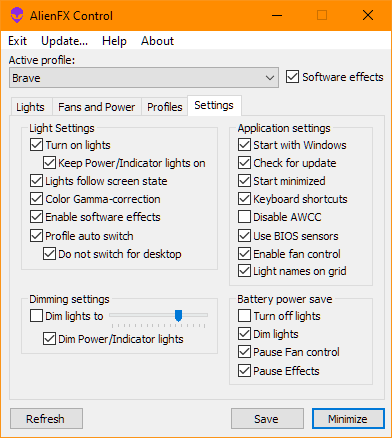
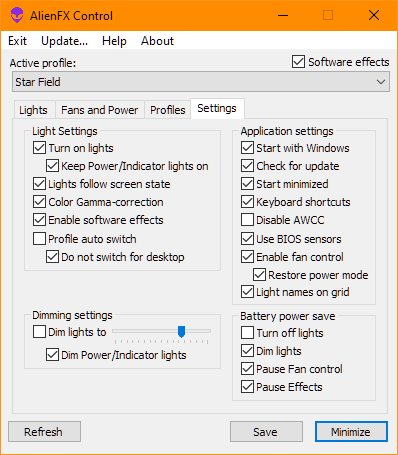
Doc & screen shot update

diff --git a/Doc/alienfx-gui.md b/Doc/alienfx-gui.md
@@ -347,7 +347,8 @@ Application behavior control block at right:
 - "Disable AWCC" - Application will check active Alienware Control Center service at the each start and will try to stop it (and start back upon exit). It will require "Run as administrator" privilege (default - off).
 - "Use BIOS sensors" - Read additional hardware data from Windows WMI and Alienware BIOS (if fan control enabled). It will require "Run as administrator" privilege (default - off).
 - "Enable fan control" - Enables fan and power control functionality, as well as some additional (Alienware BIOS) temperature sensors. It will require "Run as administrator" privilege (default - off).
-- - "Light names on grid" - Shows/hide light names at grid buttons (default - off).
+  - "Restore power mode" - System power mode will be stored at application start and restored at quit/sleep/hibernate/restart.
+- "Light names on grid" - Shows/hide light names at grid buttons (default - off).
 
 Light system control options at the left:
 - "Turn on lights" - Global light control system switch. All lights will be off and black if disabled (default - on).
@@ -372,7 +373,7 @@ Interface settings:
 - "Light names on grid" - Shows/hide light names at grid buttons.
 
 
-## Keyboard shortcuts 
+## Keyboard shortcuts
 
 Global shortcuts (can be operated if application running):
 - CTRL+SHIFT+F12 - enable/disable lights.

diff --git a/Doc/alienfan-gui.md b/Doc/alienfan-gui.md
@@ -49,6 +49,7 @@ There are some settings into application top menu under "Settings":
 - "Keyboard shortcuts" - Global keyboard hotkeys enabled.
 - "Check for update" - Application will made online update check at start.
 - "Disable AWCC" - In case AWCC service running, it will be stopped and started back then application quit.
+- "Restore power mode" - System power mode will be stored at application start and restored at quit/sleep/hibernate/restart.
 
 ## Keyboard shortcuts
 
